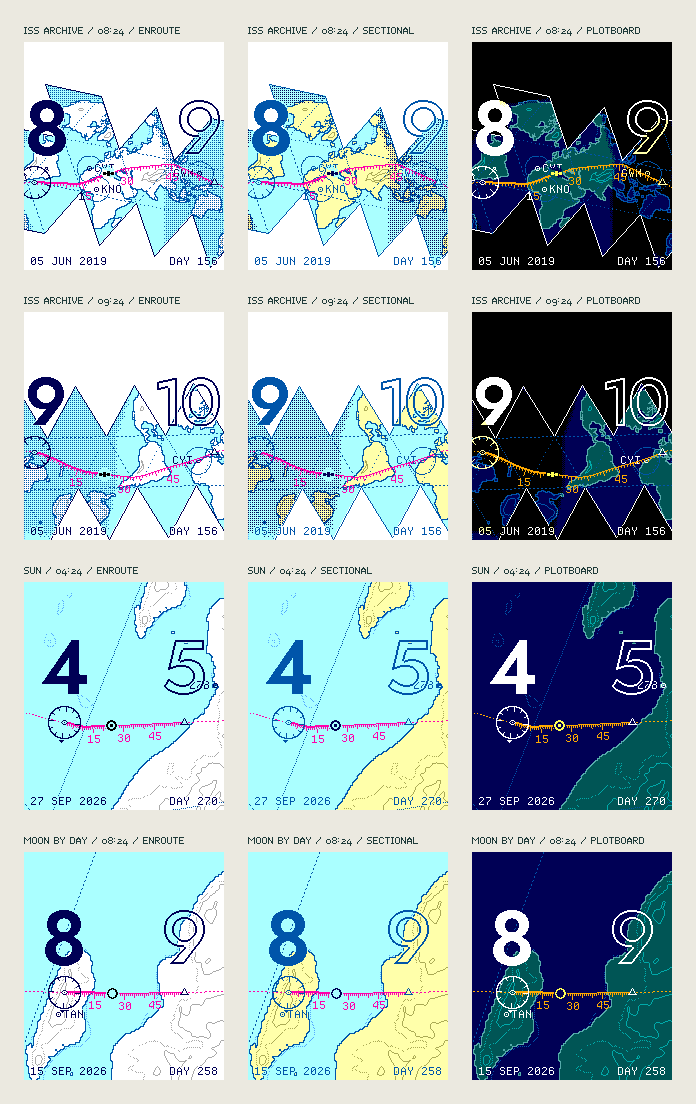
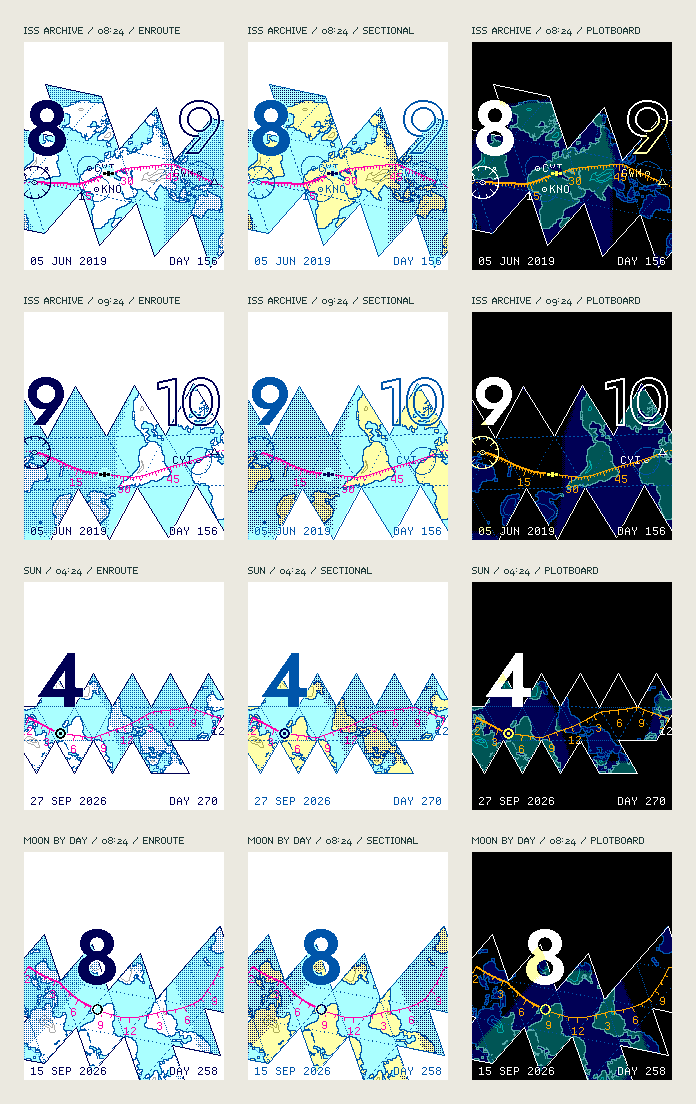
Rolling Fuller: whole-day strips for the Sun and Moon
On the Fuller sheet the Sun and Moon now show their whole local day,
midnight to midnight, as one rolled strip running left to right. There
is a tick every hour, the hours are numbered every three, and the
midnights are marked longest. The day so far is bold and the present
hour stands over the body. Paths far from the equator unroll as arcs,
so the view fits the whole arc. Local midnight is found by stepping
the clock, so changeover days last 23 or 25 hours; tests cover New
York, London and Kolkata.

Claude-Session: https://claude.ai/code/session_013jrbqnwLffJYPYurYaCgSZ

Changed region(s): [[0.0302, 0.7699, 0.9655, 0.9855], [0.0302, 0.5236, 0.9655, 0.7391]]

diff --git a/src/enroute-render.js b/src/enroute-render.js
@@ -74,6 +74,7 @@ function figurePixels(text,size,x,y){
   return out;
 }
 const bounds=pixels=>{
+  if(!pixels.length)return null;
   const xs=pixels.map(p=>p[0]),ys=pixels.map(p=>p[1]),x=Math.min(...xs),y=Math.min(...ys);
   return {x,y,w:Math.max(...xs)-x+1,h:Math.max(...ys)-y+1};
 };
@@ -169,7 +170,7 @@ export function renderEnroute({camera,ground,relief,light:zones,plate,epoch,time
   // satellite during this hour are shown, each with its acquisition circle.
   const heard=s=>camera.track.some(p=>p.hour&&dot(p.dir,direction(s.lat,s.lon))>=Math.cos(ACQUISITION*RAD));
   for(const s of network.stations){
-    if(camera.wide&&!heard(s))continue;
+    if(camera.day||(camera.wide&&!heard(s)))continue;
     const p=camera.project(s.lat,s.lon),x=Math.round(p.x),y=Math.round(p.y);
     if(x<4||x>W-5||y<top+6||y>bottom-6)continue;
     const w=textWidth(LABEL,s.code),right=x+5+w<W-3,box={x:right?x-3:x-6-w,y:y-5,w:w+9,h:11};
@@ -198,7 +199,16 @@ export function renderEnroute({camera,ground,relief,light:zones,plate,epoch,time
   // On the zoomed charts the route is itself the scale: a graduation every
   // minute, longer every five and fifteen, the quarters numbered beneath.
   // The world band keeps five-minute ties; its scale is in the panel above.
-  for(let i=1;i<track.length-1;i++){
+  // A whole-day strip is graduated in hours instead: a tick every hour,
+  // longer and numbered every three, longest at the two midnights.
+  if(camera.day)for(const p of camera.day.hours){
+    const i=track.indexOf(p),a=track[Math.max(0,i-1)],b=track[Math.min(track.length-1,i+1)],len=Math.hypot(b.x-a.x,b.y-a.y)||1;
+    let nx=-(b.y-a.y)/len,ny=(b.x-a.x)/len;if(ny<0){nx=-nx;ny=-ny;}
+    const hr=Math.round((p.epoch-camera.day.start)/3600000),size=hr%24===0?7:hr%3===0?5:3;
+    for(let s=1;s<=size;s++)plot(buf,p.x+nx*s,p.y+ny*s,ink('route')(p.x,p.y));
+    if(hr%3===0){const hh=Number(clockParts(p.epoch,timeZone).h),label=String(clock24?(hr===24?24:hh):hh%12||12),lw=textWidth(LABEL,label);letter(textPixels(LABEL,label,Math.round(p.x+nx*9-lw/2)+1,Math.round(p.y+ny*9+9)),ink('route'),0);}
+  }
+  for(let i=1;i<track.length-1&&!camera.day;i++){
     const p=track[i];if(!p.hour)continue;const m=Math.round((p.epoch-s0.epoch)/MINUTE);
     if((p.epoch-s0.epoch)%MINUTE||m<=0||m>=60||(camera.world&&m%5))continue;
     const a=track[i-1],b=track[i+1],len=Math.hypot(b.x-a.x,b.y-a.y)||1;let nx=-(b.y-a.y)/len,ny=(b.x-a.x)/len;if(ny<0){nx=-nx;ny=-ny;}
@@ -208,7 +218,7 @@ export function renderEnroute({camera,ground,relief,light:zones,plate,epoch,time
   // This hour's station is a VOR: a hexagon inside a compass rose, north up.
   // The next hour is an open triangle, a reporting point.
   const c0={x:Math.round(s0.x),y:Math.round(s0.y)},c1={x:Math.round(s1.x),y:Math.round(s1.y)},col=ink('ink');
-  if(!camera.world){
+  if(!camera.world&&!camera.day){
     // The rose turns to true north at the station; north is up on the
     // cylindrical charts, and anywhere on a rolled Fuller sheet.
     const R=16,g=s0,q0=camera.project(g.lat,g.lon),q1=camera.project(Math.min(89.9,g.lat+.5),g.lon),nl=Math.hypot(q1.x-q0.x,q1.y-q0.y)||1;
@@ -221,7 +231,7 @@ export function renderEnroute({camera,ground,relief,light:zones,plate,epoch,time
     const x=cx-(row.length>>1)+dx,y=cy-(rows.length>>1)+dy;
     if(v==='#')plot(buf,x,y,col(cx,cy));else if(row.indexOf('#')<dx&&dx<row.lastIndexOf('#'))clear(x,y);
   }));
-  symbol(HEXAGON,c0.x,c0.y);plot(buf,c0.x,c0.y,col(c0.x,c0.y));symbol(TRIANGLE,c1.x,c1.y-1);
+  if(!camera.day){symbol(HEXAGON,c0.x,c0.y);plot(buf,c0.x,c0.y,col(c0.x,c0.y));symbol(TRIANGLE,c1.x,c1.y-1);}
   // The present: the body's own symbol on a knockout.
   const body=position(camera.body,epoch),p=camera.project(body.lat,body.lon),mx=Math.round(p.x),my=Math.round(p.y);
   const disc=(cx,cy,r,fn)=>{const n=Math.ceil(r);for(let dy=-n;dy<=n;dy++)for(let dx=-n;dx<=n;dx++)if(dx*dx+dy*dy<=r*r)fn(cx+dx,cy+dy,dx,dy);};
@@ -273,6 +283,16 @@ export function renderEnroute({camera,ground,relief,light:zones,plate,epoch,time
       const lw=textWidth(LABEL,parts.m),inner=[Math.min(gx+hw,nx+nw)+3,Math.max(gx,nx)-3-lw],lx=Math.max(inner[0],Math.min(inner[1],Math.round(ix-lw/2)));
       for(const [a,b] of textPixels(LABEL,parts.m,lx,B-10))plot(buf,a,b,sc());minuteBox={x:lx,y:B-18,w:lw,h:8};
     }
+  }else if(camera.day){
+    // On the day strip the present hour stands over the body; the strip's
+    // own figures carry the rest of the day.
+    const size=hour.length>1?FIGURE.hourTwo:FIGURE.hour,hw=runWidth(hour,size),gy=my-24-runHeight(size);
+    hourPixels=figurePixels(hour,size,place(mx,hw),gy);nextSolid=[];letter(hourPixels,ink('ink'));
+    index={x:mx,y:my};
+    if(readout){
+      const lw=textWidth(LABEL,parts.m),lx=Math.max(4,Math.min(W-4-lw,Math.round(mx-lw/2)));
+      letter(textPixels(LABEL,parts.m,lx,my-11),ink('mark'),1);minuteBox={x:lx,y:my-19,w:lw,h:8};
+    }
   }else{
     const size=hour.length>1||next.length>1?FIGURE.hourTwo:FIGURE.hour,hw=runWidth(hour,size),nw=runWidth(next,size),gy=c0.y-26-runHeight(size);
     hourPixels=figurePixels(hour,size,place(c0.x,hw),gy);nextSolid=figurePixels(next,size,place(c1.x,nw),gy);
@@ -314,9 +334,9 @@ export class EnrouteRenderer{
   constructor(atlas,meters){this.atlas=atlas;this.meters=meters;this.stats={geometryBuilds:0,lightBuilds:0,renders:0};}
   render(state){
     const {body,epoch,timeZone,clock24,plate}=state,readout=!!state.readout,start=civilHour(epoch,timeZone);
-    const projection=state.projection==='fuller'?'fuller':'chart',geometryKey=`${projection}/${body}/${start}`,lightKey=`${geometryKey}/${Math.floor(epoch/MINUTE)}`;
+    const projection=state.projection==='fuller'?'fuller':'chart',geometryKey=`${projection}/${body}/${start}/${timeZone}`,lightKey=`${geometryKey}/${Math.floor(epoch/MINUTE)}`;
     if(this.geometryKey!==geometryKey){
-      this.camera=projection==='fuller'?rollCamera(body,start,{span:body==='sun'||body==='moon'?SPAN:180}):chartCamera(body,start,{span:SPAN});this.ground=groundLayer(this.camera,this.atlas);this.relief=reliefLayer(this.camera,this.meters);
+      this.camera=projection==='fuller'?(body==='sun'||body==='moon'?rollCamera(body,start,{span:192,day:localDay(epoch,timeZone)}):rollCamera(body,start,{span:180})):chartCamera(body,start,{span:SPAN});this.ground=groundLayer(this.camera,this.atlas);this.relief=reliefLayer(this.camera,this.meters);
       this.geometryKey=geometryKey;this.stats.geometryBuilds++;
     }
     if(this.lightKey!==lightKey){this.light=lightLayer(this.ground,epoch);this.lightKey=lightKey;this.stats.lightBuilds++;}
@@ -328,4 +348,15 @@ export class EnrouteRenderer{
     this.last={...out,rgba,start,zones,world:this.camera.world,time:clockParts(epoch,timeZone).text,stationsOnRoute:this.camera.stations.map(s=>({x:s.x,y:s.y,epoch:s.epoch}))};
     return this.last;
   }
+}
+
+// Local midnight to the next local midnight (23 or 25 hours across a DST
+// change), for the whole-day strip.
+export function localDay(epoch,timeZone){
+  // Subtracting the wall-clock time is off by an hour on a changeover day,
+  // so step until the local clock really reads midnight.
+  const wall=t=>{const p=clockParts(t,timeZone);return Number(p.h)*60+Number(p.m);};
+  const off=t=>{const m=wall(t);return m>12*60?m-24*60:m;};
+  const floor=t=>{let c=Math.floor(t/MINUTE)*MINUTE-wall(t)*MINUTE;for(let i=0;i<3&&off(c);i++)c-=off(c)*MINUTE;return c;};
+  const start=floor(epoch);return {start,end:floor(start+26*3600000)};
 }

diff --git a/src/roll.js b/src/roll.js
@@ -27,23 +27,33 @@ function rollTo(tile,dir){
   return tile;
 }
 
-export function rollCamera(body,start,{span=180,trackY=140,rings=2}={}){
+export function rollCamera(body,start,{span=180,trackY=140,rings=2,day=null}={}){
   // A satellite's strip stays under one lap (about 92 min for the ISS), so
-  // the route never rolls back over a face it has already printed.
-  const world=body!=='sun'&&body!=='moon',step=world?MINUTE/4:MINUTE,lead=(world?10:40)*MINUTE;
-  const samples=sampleTrack(body,start-lead,start+60*MINUTE+lead,step);
+  // the route never rolls back over a face it has already printed. With
+  // day={start,end}, the strip is the whole local day instead, midnight to
+  // midnight, for the Sun and Moon, which take a day to circle the Earth.
+  const world=body!=='sun'&&body!=='moon',step=day?5*MINUTE:world?MINUTE/4:MINUTE,lead=(world?10:40)*MINUTE;
+  const from=day?day.start:start-lead,to=day?day.end:start+60*MINUTE+lead,samples=sampleTrack(body,from,to,step);
   // Roll along the route. Cells are keyed by lattice position; the route's
   // own printing always wins its cells.
   const cells=new Map(),path=[];let tile={face:faceOf(samples[0].dir),tri:TEMPLATE.map(p=>[...p])};tile.key=key(tile.tri);
   const flat=samples.map(s=>{
     tile=rollTo(tile,s.dir);
     if(!cells.has(tile.key)){const t={...tile,route:true};cells.set(tile.key,t);path.push(t);}
-    return {...s,tile:cells.get(tile.key),xy:flatPoint(forwardFace(tile.face,s.dir),tile.tri),hour:s.epoch>=start&&s.epoch<=start+60*MINUTE};
+    return {...s,tile:cells.get(tile.key),xy:flatPoint(forwardFace(tile.face,s.dir),tile.tri),hour:day?true:s.epoch>=start&&s.epoch<=start+60*MINUTE};
   });
-  const i0=flat.findIndex(p=>p.epoch===start),i1=flat.findIndex(p=>p.epoch===start+60*MINUTE),a=flat[i0].xy,b=flat[i1].xy;
+  const i0=flat.findIndex(p=>p.epoch===start),i1=flat.findIndex(p=>p.epoch===start+60*MINUTE),a=flat[day?0:i0].xy,b=flat[day?flat.length-1:i1].xy;
   // Similarity transform: this hour's stations on a horizontal line, SPAN
   // pixels apart, time running left to right.
-  const len=Math.hypot(b[0]-a[0],b[1]-a[1]),ux=(b[0]-a[0])/len,uy=(b[1]-a[1])/len,scale=span/len,mid=[(a[0]+b[0])/2,(a[1]+b[1])/2];
+  const len=Math.hypot(b[0]-a[0],b[1]-a[1]),ux=(b[0]-a[0])/len,uy=(b[1]-a[1])/len;let scale=span/len,mid=[(a[0]+b[0])/2,(a[1]+b[1])/2];
+  if(day){
+    // A path far from the equator unrolls as an arc, as a cone flattens into
+    // a fan. Fit the whole day's arc, not just its chord, and centre it.
+    const rs=flat.map(p=>p.xy[0]*ux+p.xy[1]*uy),rt=flat.map(p=>-p.xy[0]*uy+p.xy[1]*ux);
+    const s0=Math.min(...rs),s1=Math.max(...rs),t0=Math.min(...rt),t1=Math.max(...rt);
+    scale=Math.min(span/(s1-s0),110/Math.max(1e-9,t1-t0));
+    const sc=(s0+s1)/2,tc=(t0+t1)/2;mid=[sc*ux-tc*uy,sc*uy+tc*ux];
+  }
   const toScreenXY=p=>{const dx=p[0]-mid[0],dy=p[1]-mid[1];return {x:W/2+(dx*ux+dy*uy)*scale,y:trackY-(-dx*uy+dy*ux)*scale};};
   const toPlane=(x,y)=>{const s=(x-W/2)/scale,t=(trackY-y)/scale;return [mid[0]+s*ux-t*uy,mid[1]+s*uy+t*ux];};
   // A floating net: the faces the route rolls over, plus every face that
@@ -94,6 +104,6 @@ export function rollCamera(body,start,{span=180,trackY=140,rings=2}={}){
     return best||{x:-999,y:-999};
   };
   const track=flat.map(p=>({...p,...toScreenXY(p.xy)}));
-  return {body,start,world:false,fuller:true,wide:world,outside:(x,y)=>!locate(x,y),track,scale,band:{top:0,bottom:H},tiles,toScreen:project,toGround,project,
-    stations:[track[i0],track[i1]],key:`fuller/${body}/${start}/${span}`};
+  return {body,start,world:false,fuller:true,wide:world||!!day,outside:(x,y)=>!locate(x,y),track,scale,band:{top:0,bottom:H},tiles,toScreen:project,toGround,project,
+    stations:[track[i0],track[i1]],day:day?{...day,hours:track.filter(p=>(p.epoch-day.start)%(60*MINUTE)===0)}:null,key:`fuller/${body}/${day?day.start:start}/${span}`};
 }

diff --git a/index.html b/index.html
@@ -9,7 +9,7 @@
 <fieldset><legend>Follow</legend><div class="segmented"><button data-body="sun" aria-pressed="true">Sun</button><button data-body="moon" aria-pressed="false">Moon</button><button data-body="iss" aria-pressed="false">ISS archive</button></div><p class="help" id="body-note"></p></fieldset>
 <fieldset id="live-satellites"><legend>Live satellites</legend><div class="live-row"><select id="sat-select" aria-label="Satellite"></select><button id="sat-track">Track now</button></div><p class="help" id="sat-status">Current orbital elements come from CelesTrak, at most once every two hours per satellite, and are used only within three days of their own epoch.</p></fieldset>
 <fieldset id="moon-light"><legend>Moonlight</legend><div class="segmented"><button data-observation="day" aria-pressed="true">By day</button><button data-observation="dusk" aria-pressed="false">Nightfall</button><button data-observation="night" aria-pressed="false">By night</button></div><p class="help">The same Moon over three evenings. On the paper plates, night is a printed dot tint that deepens through civil twilight.</p></fieldset>
-<fieldset><legend>Projection</legend><div class="segmented"><button data-projection="chart" aria-pressed="true">Chart</button><button data-projection="fuller" aria-pressed="false">Rolling Fuller</button></div><p class="help" id="projection-note">A spike: the icosahedron rolls along the route, printing each face as it touches down, and floats as a net on the paper: the route’s faces and their true neighbours, with no cuts. Time runs left to right; the compass rose shows where north is.</p></fieldset>
+<fieldset><legend>Projection</legend><div class="segmented"><button data-projection="chart" aria-pressed="true">Chart</button><button data-projection="fuller" aria-pressed="false">Rolling Fuller</button></div><p class="help" id="projection-note">A spike: the icosahedron rolls along the route, printing each face as it touches down, and floats as a net on the paper: the route’s faces and their true neighbours, with no cuts. Time runs left to right; the compass rose shows where north is. The Sun and Moon show their whole local day as one rolled strip.</p></fieldset>
 <fieldset><legend>Plate</legend><div id="enroute-plates" class="theme-options"></div></fieldset>
 <fieldset><legend>Read the chart</legend><p class="help">The hour figures stand over their stations: this hour solid over its compass rose, the next outlined over its reporting point. Between them the magenta route is a graduated scale, two pixels a minute, with longer marks at five and fifteen minutes and the quarters numbered. The Sun or Moon symbol is the index; the bold line behind it is the hour already flown. On the ISS world view the same scale is set in a panel above the map, with a triangular index. A plain minute figure can be added under Clock. Contours fall every 1,000 m, dotted at 500 m; offshore, the dotted blue line is the 200 m edge of the continental shelf. Three-letter codes are the tracking stations of NASA’s Mercury and Apollo networks. The margin carries the date and its day of the year.</p></fieldset>
 <details class="art-options"><summary>Clock</summary><div><label class="select-label" for="enroute-zone">Clock zone<select id="enroute-zone"><option value="America/New_York">Eastern time</option><option value="UTC">UTC</option><option value="Europe/London">London</option><option value="Asia/Kolkata">Kolkata</option></select></label><label class="art-checkbox"><input type="checkbox" id="enroute-24"> 24-hour figures</label><label class="art-checkbox"><input type="checkbox" id="enroute-readout"> Minute figure over the index</label></div></details><div class="art-study-date"><span id="enroute-date"></span><span>FROZEN STUDY</span></div></aside></section>

diff --git a/docs/STUDY-06.md b/docs/STUDY-06.md
@@ -42,7 +42,7 @@ The spike (`src/roll.js`, *Projection → Rolling Fuller* on the page) rolls the
 
 The current version is a **floating net**, a true net of the icosahedron grown from the route. The faces the route rolls over come first; then up to two rings of neighbours are added, nearest the middle of the hour first. Each face is printed at most once, so no place ever appears beside a copy of itself, and a face joins only where it truly meets every face already printed beside it. Neighbouring faces are therefore always consecutive on the globe, and the net contains no cuts at all. A satellite's strip is also kept under one lap (the hour plus ten minutes either side, against the ISS's 92-minute orbit), so the route never rolls back over its own faces. Folds inside it are quiet dotted lines, its outline is inked, and the rest of the view is plain paper (or dark glass on the Plotboard). The camera turns the net so the hour runs left to right like a ruler, and the compass rose points to true north, because north is no longer up. On a whole-orbit net only the 2,000 m and 4,000 m contours remain, and only the tracking stations that can hear the satellite during this hour are drawn, each with its acquisition circle.
 
-It suits satellites best. On the Gray–Fuller faces great circles are nearly straight, so an ISS hour, about 240° of orbit, unrolls into a zigzag band of four or five faces, with the orbit as a near-straight graduated line through the middle. Small kinks remain at face edges, because the transform is not exactly gnomonic and the Earth turns beneath the orbit. For the Sun and Moon an hour covers only part of one face, so the net fills the view as a single tilted triangle.
+It suits satellites best. On the Gray–Fuller faces great circles are nearly straight, so an ISS hour, about 240° of orbit, unrolls into a zigzag band of four or five faces, with the orbit as a near-straight graduated line through the middle. Small kinks remain at face edges, because the transform is not exactly gnomonic and the Earth turns beneath the orbit. For the Sun and Moon an hour covers only part of one face, so on the Fuller sheet they show the **whole local day** instead, midnight to midnight. That is 23 or 25 hours across a daylight-saving change. The day rolls out as a band of the net running left to right, with a tick every hour, the hours numbered every three and the two midnights marked longest. The day so far is bold, the body is the index, and the present hour stands large above it. Near an equinox the Sun's day is almost a great circle and lies nearly straight. The Moon's, or the Sun's near a solstice, runs well away from the equator, and a circle of latitude unrolls as an arc, the way a cone flattens into a fan. The view therefore fits the whole arc, not just its chord.
 
 ![Rolling Fuller spike proofs](screenshots/study-06-fuller-contact-sheet.png)
 
